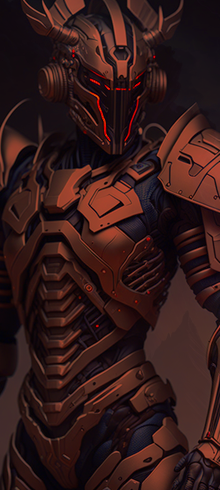
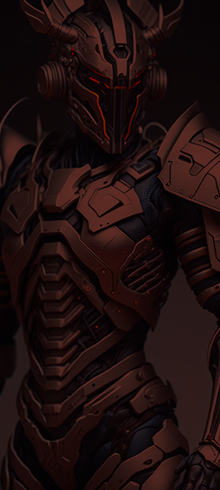
player selection overhaul v2.4

diff --git a/programming/WinForms_Tic_Tac_Toe/SetupForm.cs b/programming/WinForms_Tic_Tac_Toe/SetupForm.cs
@@ -1,5 +1,5 @@
 
-using System.Linq;
+using System.Resources;
 
 namespace WinFormsApp1;
 
@@ -14,23 +14,6 @@ public partial class SetupForm : Form
 
     readonly List<ChoiceItem> roster = new();
 
-    static Label AddLabel(Control parent, Point loc, string name, int tab, string text)
-    {
-        var label = new Label
-        {
-            AutoSize = true,
-            Location = loc,
-            Name = name,
-            Size = new Size(62, 15),
-            TabIndex = tab,
-            Text = text
-        };
-
-        parent.Controls.Add(label);
-
-        return label;
-    }
-
     public SetupForm()
     {
         InitializeComponent();
@@ -40,13 +23,16 @@ public partial class SetupForm : Form
 
         foreLeft = ColorExtensions.BlendOver(tintLeft, ForeColor);
         foreRight = ColorExtensions.BlendOver(tintRight, ForeColor);
-        foreLeftDim = ColorExtensions.BlendOver(UIColors.Black, foreLeft);
-        foreRightDim = ColorExtensions.BlendOver(foreRight, UIColors.Black);
+        foreLeftDim = ColorExtensions.BlendOver(UIColors.Dim, foreLeft);
+        foreRightDim = ColorExtensions.BlendOver(UIColors.Dim, foreRight);
 
         panelLeft.ForeColor = foreLeft;
         panelRight.ForeColor = foreRight;
         panelLeft.BackColor = UIColors.Transparent;
         panelRight.BackColor = UIColors.Transparent;
+
+        panelLeft.BackgroundImageLayout = 
+        panelRight.BackgroundImageLayout = ImageLayout.Stretch;
 
         button1.BackColor = theme.Light;
         button1.FlatAppearance.BorderSize = 0;
@@ -64,7 +50,25 @@ public partial class SetupForm : Form
 
         CreateChoiceLists();
 
-        // panelLeft.BackgroundImage = Resource.AILeft;
+        AppForm.ApplyDoubleBuffer(panelLeft);
+        AppForm.ApplyDoubleBuffer(panelRight);
+    }
+
+    static Label AddLabel(Control parent, Point loc, string name, int tab, string text)
+    {
+        var label = new Label
+        {
+            AutoSize = true,
+            Location = loc,
+            Name = name,
+            Size = new Size(62, 15),
+            TabIndex = tab,
+            Text = text
+        };
+
+        parent.Controls.Add(label);
+
+        return label;
     }
 
     void CreateChoiceLists()
@@ -132,20 +136,24 @@ public partial class SetupForm : Form
             MakeOnClickHandler(rec, roster);
     }
 
-    EventHandler MakeOnClickHandler(ChoiceItem choiceItem, List<ChoiceItem> roster)
+    void MakeOnClickHandler(ChoiceItem choiceItem, List<ChoiceItem> roster)
     {
         EventHandler handler = (object? sender, EventArgs e) =>
         {
-            choiceItem.chosen = true;
-
             var side = choiceItem.side;
-
             var rosterThisSide = roster.Where(itm => itm.side == side && itm != choiceItem);
             var rosterOtherSide = roster.Where(itm => itm.side != side);
 
+            var (panelThisSide, panelOtherSide) = side == ChoiceItem.Side.Left ? (panelLeft, panelRight) : (panelRight, panelLeft);
+
+            panelThisSide.BackgroundImage = GetBackgroundImage(choiceItem.rosterId, side);
+
+            choiceItem.chosen = true;
+            choiceItem.Activate();
+
             foreach (var rec in rosterThisSide)
             {
-                choiceItem.chosen = false;
+                rec.chosen = false;
                 rec.Deactivate();
             }
 
@@ -154,14 +162,22 @@ public partial class SetupForm : Form
             var mirrorItem = rosterOtherSide.FirstOrDefault(itm => itm.chosen && itm.rosterId == rosterId);
 
             if (mirrorItem != null)
-                foreach(var rec in rosterOtherSide) rec.Deactivate();
+            {
+                panelOtherSide.BackgroundImage = null;
+
+                mirrorItem.chosen = false;
+                foreach (var rec in rosterOtherSide) rec.Activate();
+            }
         };
 
         choiceItem.SetOnClickHandler(handler);
-
-        return handler;
     }
 
+    static Image? GetBackgroundImage(Game.Roster rosterId, ChoiceItem.Side side)
+    {
+        var imageName = $"{rosterId}_{side}";
+        return (Image?)Resource.ResourceManager.GetObject(imageName);
+    }
 
     private void button1_Click(object sender, EventArgs e)
     {
@@ -169,7 +185,7 @@ public partial class SetupForm : Form
     }
 }
 
-class ChoiceItem
+public class ChoiceItem
 {
     public bool chosen;
 
@@ -202,22 +218,26 @@ class ChoiceItem
 
     public void Activate()
     {
-        identity.Cursor = Cursors.Hand;
         identity.ForeColor = foreOn;
         origin.ForeColor = foreOn;
     }
     public void Deactivate()
     {
-        identity.Cursor = Cursors.Default;
         identity.ForeColor = foreOff;
         origin.ForeColor = foreOff;
     }
-    public void SetOnClickHandler(EventHandler handler) => identity.Click += handler;
+    public void SetOnClickHandler(EventHandler handler)
+    {
+        identity.Click += handler;
+        identity.Cursor = Cursors.Hand;
+    }
 
     public void Deconstruct(out Label _origin, out Label _identity)
     {
         _identity = identity;
         _origin = origin;
     }
+
+    public override string ToString() => $"{identity.Text} | {side} | chosen: {chosen}";
 }
 

diff --git a/programming/WinForms_Tic_Tac_Toe/Resource.Designer.cs b/programming/WinForms_Tic_Tac_Toe/Resource.Designer.cs
@@ -63,9 +63,9 @@ namespace WinFormsApp1 {
         /// <summary>
         ///   Looks up a localized resource of type System.Drawing.Bitmap.
         /// </summary>
-        internal static System.Drawing.Bitmap AILeft {
+        internal static System.Drawing.Bitmap AI_One_Left {
             get {
-                object obj = ResourceManager.GetObject("AILeft", resourceCulture);
+                object obj = ResourceManager.GetObject("AI_One_Left", resourceCulture);
                 return ((System.Drawing.Bitmap)(obj));
             }
         }
@@ -73,9 +73,29 @@ namespace WinFormsApp1 {
         /// <summary>
         ///   Looks up a localized resource of type System.Drawing.Bitmap.
         /// </summary>
-        internal static System.Drawing.Bitmap AIRight {
+        internal static System.Drawing.Bitmap AI_One_Right {
             get {
-                object obj = ResourceManager.GetObject("AIRight", resourceCulture);
+                object obj = ResourceManager.GetObject("AI_One_Right", resourceCulture);
+                return ((System.Drawing.Bitmap)(obj));
+            }
+        }
+        
+        /// <summary>
+        ///   Looks up a localized resource of type System.Drawing.Bitmap.
+        /// </summary>
+        internal static System.Drawing.Bitmap AI_Two_Left {
+            get {
+                object obj = ResourceManager.GetObject("AI_Two_Left", resourceCulture);
+                return ((System.Drawing.Bitmap)(obj));
+            }
+        }
+        
+        /// <summary>
+        ///   Looks up a localized resource of type System.Drawing.Bitmap.
+        /// </summary>
+        internal static System.Drawing.Bitmap AI_Two_Right {
+            get {
+                object obj = ResourceManager.GetObject("AI_Two_Right", resourceCulture);
                 return ((System.Drawing.Bitmap)(obj));
             }
         }
@@ -103,9 +123,9 @@ namespace WinFormsApp1 {
         /// <summary>
         ///   Looks up a localized resource of type System.Drawing.Bitmap.
         /// </summary>
-        internal static System.Drawing.Bitmap HumanLeft {
+        internal static System.Drawing.Bitmap Human_One_Left {
             get {
-                object obj = ResourceManager.GetObject("HumanLeft", resourceCulture);
+                object obj = ResourceManager.GetObject("Human_One_Left", resourceCulture);
                 return ((System.Drawing.Bitmap)(obj));
             }
         }
@@ -113,9 +133,29 @@ namespace WinFormsApp1 {
         /// <summary>
         ///   Looks up a localized resource of type System.Drawing.Bitmap.
         /// </summary>
-        internal static System.Drawing.Bitmap HumanRight {
+        internal static System.Drawing.Bitmap Human_One_Right {
             get {
-                object obj = ResourceManager.GetObject("HumanRight", resourceCulture);
+                object obj = ResourceManager.GetObject("Human_One_Right", resourceCulture);
+                return ((System.Drawing.Bitmap)(obj));
+            }
+        }
+        
+        /// <summary>
+        ///   Looks up a localized resource of type System.Drawing.Bitmap.
+        /// </summary>
+        internal static System.Drawing.Bitmap Human_Two_Left {
+            get {
+                object obj = ResourceManager.GetObject("Human_Two_Left", resourceCulture);
+                return ((System.Drawing.Bitmap)(obj));
+            }
+        }
+        
+        /// <summary>
+        ///   Looks up a localized resource of type System.Drawing.Bitmap.
+        /// </summary>
+        internal static System.Drawing.Bitmap Human_Two_Right {
+            get {
+                object obj = ResourceManager.GetObject("Human_Two_Right", resourceCulture);
                 return ((System.Drawing.Bitmap)(obj));
             }
         }

diff --git a/programming/WinForms_Tic_Tac_Toe/Utils.cs b/programming/WinForms_Tic_Tac_Toe/Utils.cs
@@ -29,7 +29,7 @@ public class Utils
             {
                 dynamic dynObj = (dynamic)obj;
                 foreach (var rec in dynObj)
-                    outp += $"{rec.Key}: {rec.Value}";
+                    outp += $"{rec.Key}: {rec.Value}\n";
             }
 
         } else if (type.IsGenericType && type.GetGenericTypeDefinition() == typeof(List<>))
@@ -41,7 +41,7 @@ public class Utils
             {
                 dynamic dynObj = (dynamic)obj;
                 foreach (var rec in dynObj)
-                    outp += rec.ToString();
+                    outp += rec.ToString() + '\n';
             }
 
         } else

diff --git a/programming/WinForms_Tic_Tac_Toe/UIRenderer.cs b/programming/WinForms_Tic_Tac_Toe/UIRenderer.cs
@@ -13,7 +13,9 @@ public class UIFonts
 
 public class UIColors
 {
+
     static readonly public Color Black = Color.FromArgb(0, 0, 0);
+    static readonly public Color Dim = Color.FromArgb(96, 0, 0, 0);
     static readonly public Color Transparent = Color.FromArgb(0, 0, 0, 0);
 
     public struct ColorTheme

diff --git a/programming/WinForms_Tic_Tac_Toe/Form.cs b/programming/WinForms_Tic_Tac_Toe/Form.cs
@@ -20,7 +20,7 @@ public partial class AppForm : Form
 
     readonly LabelManager labMgr;
 
-    static void ApplyDoubleBuffer(Control control)
+    static public void ApplyDoubleBuffer(Control control)
     {
         control.GetType().InvokeMember(
             "DoubleBuffered",

diff --git a/programming/WinForms_Tic_Tac_Toe/Game.cs b/programming/WinForms_Tic_Tac_Toe/Game.cs
@@ -4,7 +4,7 @@ namespace WinFormsApp1;
 /// <summary>
 /// Defines players roster, evaluates the board and winning conditions
 /// </summary>
-internal class Game
+public class Game
 {
     /// <summary>
     /// Pattern for human player names Human*, for AI players - AI*
